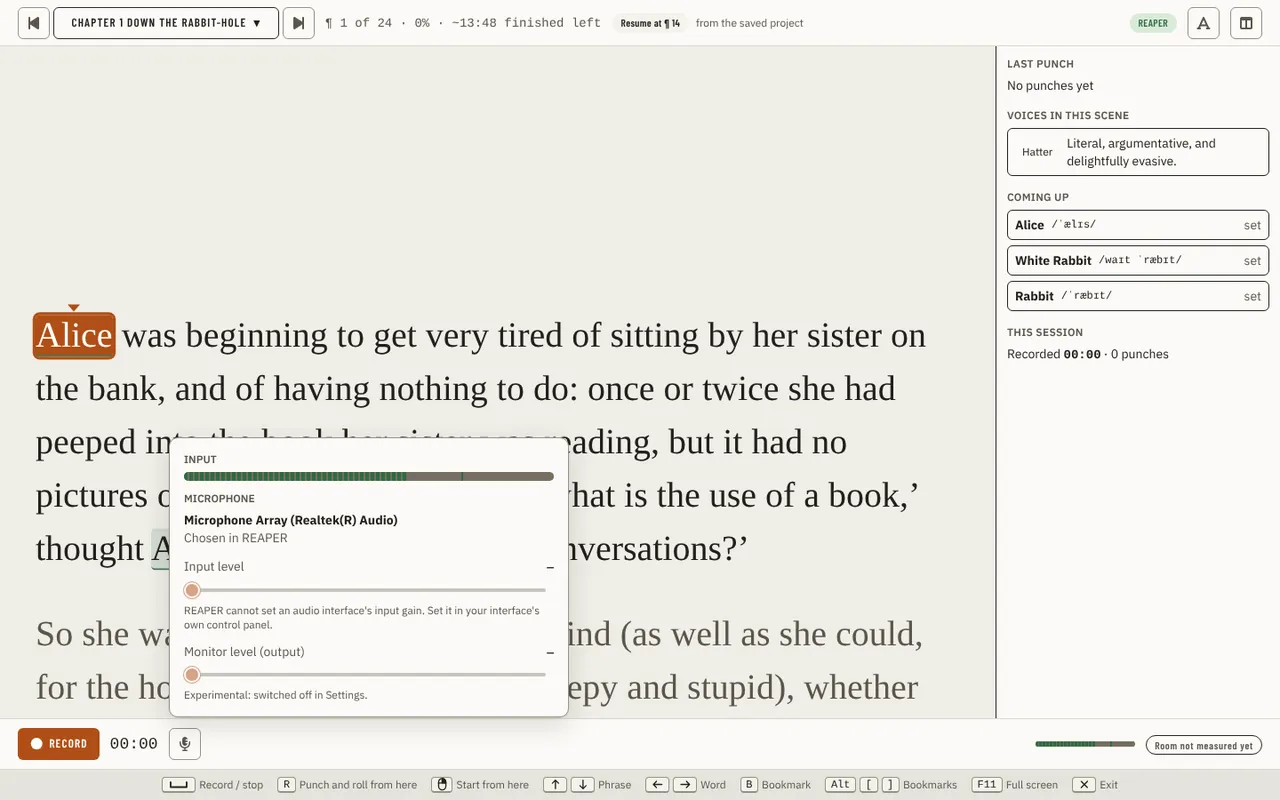
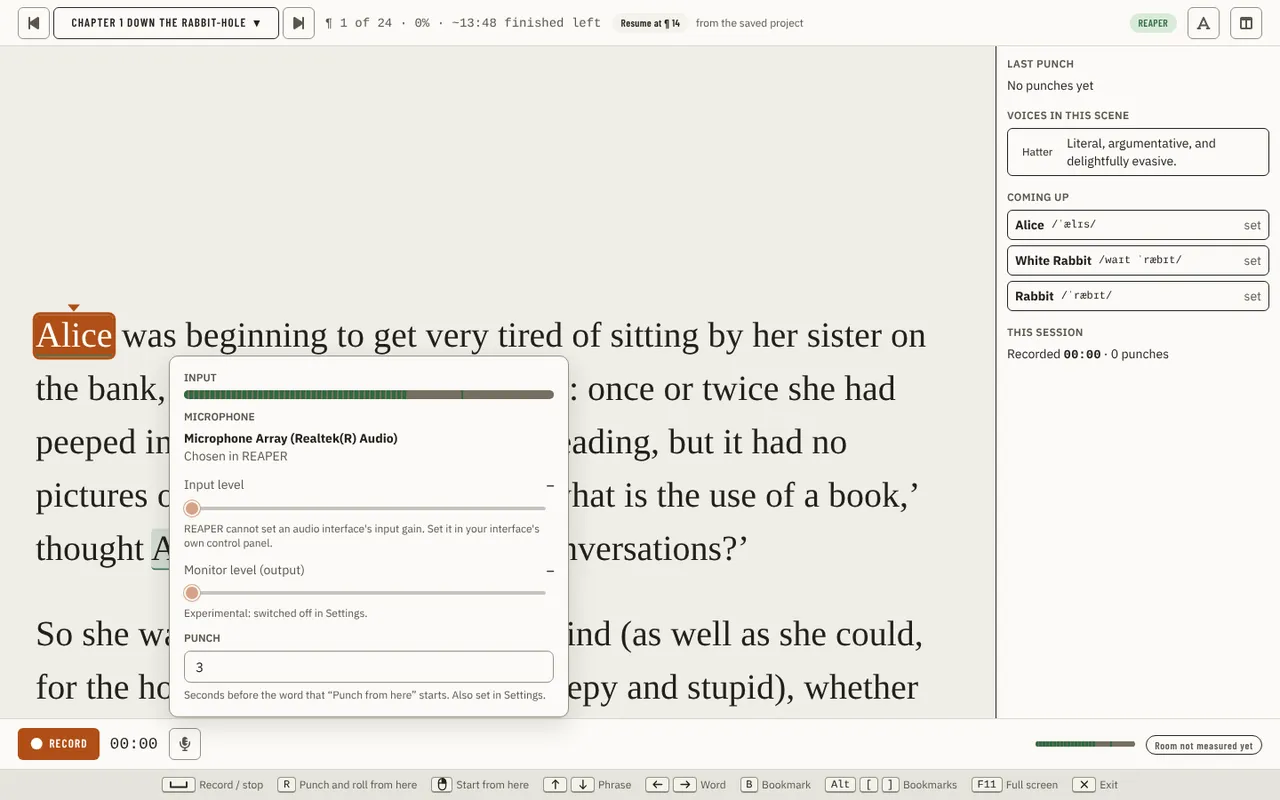
feat(ui): set the punch pre-roll in the Booth's Levels menu; drop the Settings copy (#1891)

Changed region(s): [[0.0312, 0.4688, 0.7188, 0.875], [0.4375, 0.7812, 0.7188, 0.8125]]

diff --git a/apps/ui/src/components/booth/frame/punchPreroll.test.tsx b/apps/ui/src/components/booth/frame/punchPreroll.test.tsx
@@ -1,0 +1,83 @@
+// @vitest-environment jsdom
+import { cleanup, fireEvent, render, screen, waitFor } from '@testing-library/react';
+import userEvent from '@testing-library/user-event';
+import { afterEach, describe, expect, it, vi } from 'vitest';
+import { ApiProvider } from '../../../api/ApiContext';
+import { createMockApi } from '../../../api/mockApi';
+import { defaultKeymap } from '../../../input/keymap';
+import type { NarrationApi } from '../../../types';
+import { BoothFooter } from './BoothFooter';
+
+afterEach(cleanup);
+
+// The punch pre-roll (Teleprompter.punch_preroll_seconds, a global number the host reads in "Punch from here") is set in the Levels menu, next to the
+// microphone, and only where a DAW punches. The Settings page lists it under Set on a page and opens the Booth.
+function menu(engine: 'daw' | 'builtin', over: Partial<NarrationApi> = {}) {
+  const save = vi.fn(async () => undefined);
+  const api = createMockApi({ saveSettings: save, ...over } as Partial<NarrationApi>);
+  render(
+    <ApiProvider api={api}>
+      <BoothFooter
+        record={<button>Record</button>}
+        seconds={0}
+        recording={false}
+        mic={{ engine, dawName: 'REAPER', reachable: true, device: 'USB Mic', onDevice: vi.fn() }}
+        roomTone="Room tone −58 dBFS"
+        keymap={defaultKeymap()}
+      />
+    </ApiProvider>,
+  );
+  return { save, open: () => userEvent.click(screen.getByRole('button', { name: 'Levels' })) };
+}
+
+describe('the Levels menu punch pre-roll', () => {
+  it('shows the stored pre-roll for a DAW and saves a change at the global layer', async () => {
+    const { save, open } = menu('daw');
+    await open();
+    const box = (await screen.findByRole('textbox', { name: 'Punch pre-roll (seconds)' })) as HTMLInputElement;
+    expect(box.value).toBe('3');
+    fireEvent.change(box, { target: { value: '5' } });
+    fireEvent.blur(box);
+    await waitFor(() => expect(save).toHaveBeenCalledWith('Teleprompter', 'global', { punch_preroll_seconds: '5' }));
+  });
+
+  it('clamps a value past the host range instead of saving it', async () => {
+    const { save, open } = menu('daw');
+    await open();
+    const box = await screen.findByRole('textbox', { name: 'Punch pre-roll (seconds)' });
+    fireEvent.change(box, { target: { value: '99' } });
+    fireEvent.blur(box);
+    await waitFor(() => expect(save).toHaveBeenCalledWith('Teleprompter', 'global', { punch_preroll_seconds: '10' }));
+  });
+
+  it('is not offered with the built-in recorder, which has no punch', async () => {
+    const { open } = menu('builtin');
+    await open();
+    await screen.findByRole('dialog', { name: 'Levels' });
+    expect(screen.queryByRole('textbox', { name: 'Punch pre-roll (seconds)' })).toBeNull();
+  });
+
+  it('says so when the setting cannot be read, and saves nothing', async () => {
+    const { save, open } = menu('daw', {
+      settingsForScope: async () => {
+        throw new Error('The settings file is unreadable.');
+      },
+    } as Partial<NarrationApi>);
+    await open();
+    expect(await screen.findByRole('alert')).toHaveProperty('textContent', expect.stringContaining('The settings file is unreadable.'));
+    expect(save).not.toHaveBeenCalled();
+  });
+
+  it('shows the host sentence when a save is refused, and keeps the typed value out of the stored one', async () => {
+    const { open } = menu('daw', {
+      saveSettings: async () => {
+        throw new Error('The settings file is read-only.');
+      },
+    } as Partial<NarrationApi>);
+    await open();
+    const box = await screen.findByRole('textbox', { name: 'Punch pre-roll (seconds)' });
+    fireEvent.change(box, { target: { value: '4' } });
+    fireEvent.blur(box);
+    expect(await screen.findByText(/read-only/)).toBeTruthy();
+  });
+});

diff --git a/apps/ui/src/components/booth/frame/usePunchPreroll.ts b/apps/ui/src/components/booth/frame/usePunchPreroll.ts
@@ -1,0 +1,63 @@
+import { useCallback, useEffect, useState } from 'react';
+import { usePort } from '../../../ports/usePort';
+
+const TOOL = 'Teleprompter';
+const KEY = 'punch_preroll_seconds';
+
+/** The pre-roll and the host's limits for it. The limits are the host's (`fieldSchemas`), never the menu's. */
+type PunchPreroll = { value: number; min?: number; max?: number; step?: number };
+
+type PunchPrerollState = {
+  /** Null until the setting is read, and while it cannot be. */
+  preroll: PunchPreroll | null;
+  /** Why it could not be read or saved, or ''. */
+  error: string;
+  set: (seconds: number) => void;
+};
+
+const why = (e: unknown): string => (e instanceof Error ? e.message : String(e));
+
+/**
+ * `Teleprompter.punch_preroll_seconds` through the settings port. It is a computer-wide setting, so it is read and saved at the global layer;
+ * "Punch from here" puts the DAW's edit cursor this many seconds before the word. A change is saved, then read back.
+ */
+export function usePunchPreroll(): PunchPrerollState {
+  const system = usePort('system');
+  const [preroll, setPreroll] = useState<PunchPreroll | null>(null);
+  const [error, setError] = useState('');
+  const [version, setVersion] = useState(0);
+
+  useEffect(() => {
+    let live = true;
+    system.settingsForScope('global').then(
+      (fields) => {
+        if (!live) return;
+        const field = (fields[TOOL] ?? []).find((f) => f.key === KEY);
+        const value = Number(field?.effectiveValue);
+        if (!field || field.effectiveValue === '' || !Number.isFinite(value)) {
+          setPreroll(null);
+          setError('The punch pre-roll setting could not be read.');
+          return;
+        }
+        setPreroll({ value, min: field.number?.min ?? undefined, max: field.number?.max ?? undefined, step: field.number?.step ?? undefined });
+        setError('');
+      },
+      (e) => live && setError(why(e)),
+    );
+    return () => {
+      live = false;
+    };
+  }, [system, version]);
+
+  const set = useCallback(
+    (seconds: number) => {
+      system.saveSettings(TOOL, 'global', { [KEY]: String(seconds) }).then(
+        () => setVersion((v) => v + 1),
+        (e) => setError(why(e)),
+      );
+    },
+    [system],
+  );
+
+  return { preroll, error, set };
+}

diff --git a/apps/ui/src/components/booth/frame/LevelsMenu.tsx b/apps/ui/src/components/booth/frame/LevelsMenu.tsx
@@ -7,10 +7,12 @@ import { IconButton } from '../../primitives/IconButton';
 import { LevelMeter } from '../../primitives/LevelMeter';
 import { Popover } from '../../primitives/Popover';
 import { Select } from '../../primitives/Select';
+import { NumberInput } from '../../primitives/NumberInput';
 import { Slider } from '../../primitives/Slider';
 import { Badge } from '../../primitives/StatusBadge';
 import type { InputLevel } from './useLevels';
 import { useMonitorLevel } from './useMonitorLevel';
+import { usePunchPreroll } from './usePunchPreroll';
 
 export type LevelsMenuProps = {
   /** Which engine records: with a DAW the microphone is chosen in the DAW, with the built-in recorder here. */
@@ -183,6 +185,25 @@ function LevelSliders({ levels }: { levels: NonNullable<LevelsMenuProps['levels'
   );
 }
 
+/** How far before a word "Punch from here" starts: a computer-wide number, set here because only punching reads it. Offered with a DAW, the only recorder that punches. */
+function PunchPrerollRow() {
+  const { preroll, error, set } = usePunchPreroll();
+  return (
+    <div className="flex flex-col gap-1.5">
+      <span className="text-xs font-semibold text-[var(--text-muted)] uppercase">Punch</span>
+      {preroll ? (
+        <NumberInput label="Punch pre-roll (seconds)" value={preroll.value} min={preroll.min} max={preroll.max} step={preroll.step} onValueChange={set} />
+      ) : null}
+      <span className="text-xs text-[var(--text-muted)]">Seconds before the word that “Punch from here” starts.</span>
+      {error ? (
+        <span role="alert" className="text-xs [overflow-wrap:anywhere] text-[var(--danger-text)]">
+          {error}
+        </span>
+      ) : null}
+    </div>
+  );
+}
+
 export function LevelsMenu({ engine, dawName, reachable, offReason, device, onDevice, listen, levels, level, error, open, onOpenChange }: LevelsMenuProps) {
   const off = engine === 'daw' && !reachable;
   return (
@@ -219,6 +240,7 @@ export function LevelsMenu({ engine, dawName, reachable, offReason, device, onDe
           ) : null}
         </div>
         {levels ? <LevelSliders levels={levels} /> : null}
+        {engine === 'daw' ? <PunchPrerollRow /> : null}
       </div>
     </Popover>
   );

diff --git a/apps/ui/src/interactionFeedback/teleprompter.ts b/apps/ui/src/interactionFeedback/teleprompter.ts
@@ -125,6 +125,8 @@ export const teleprompterFeedback: Record<string, FeedbackRow> = {
   'src/components/booth/companion/CompanionPage.tsx::creditsTemplates#1': row('effect', 'file-io', 'na', 'na', 'ui', 'silent', 'na', 'exempt', 'Only decides whether the credits panel has a body to show; with no template the panel stays absent (SILENT_CATCHES).'),
   'src/components/booth/companion/CompanionPage.tsx::creditsPreview#1': row('effect', 'file-io', 'na', 'na', 'ui', 'silent', 'na', 'exempt', 'The credits text the panel shows; a failed preview leaves the panel absent rather than blocking the chapter (SILENT_CATCHES).'),
   'src/components/booth/frame/LevelsMenu.tsx::recorderDevices#1': row('mount', 'instant', 'na', 'na', 'ui', 'inline', 'na', 'ok', 'The input devices of the levels popover; the result carries its own error, which the popover shows beside the device picker.'),
+  'src/components/booth/frame/usePunchPreroll.ts::settingsForScope#1': row('mount', 'file-io', 'na', 'na', 'ui', 'inline', 'na', 'ok', 'Reads the global layer when the Levels menu opens and again after each save; a failure is written under the pre-roll box in the menu.'),
+  'src/components/booth/frame/usePunchPreroll.ts::saveSettings#1': row('input', 'file-io', 'none', 'none', 'ui', 'inline', 'na', 'ok', 'A one-field write when the box is left or Enter is pressed, then read back; the host refusal is written under the box and the stored value stays.'),
   'src/components/booth/frame/useLevels.ts::subscribeTeleprompterEvent#1': subscription('The meter-only child\'s level and meter_stopped events: the popover draws the level and shows the child\'s error.'),
   'src/components/booth/frame/useLevels.ts::teleprompterMeterStart#1': row('effect', 'instant', 'na', 'na', 'ui', 'inline', 'na', 'ok', 'Starts the meter-only child while the popover is open; a refusal is shown as the meter\'s error.'),
   'src/components/booth/frame/useLevels.ts::teleprompterMeterStop#1': row('effect', 'instant', 'na', 'na', 'ui', 'silent', 'na', 'exempt', 'Releases the meter-only child when the popover closes or the device changes; nothing is left mounted to tell, and the next start works either way (SILENT_CATCHES).'),

diff --git a/apps/ui/src/components/settings/page/PageSettingPanel.tsx b/apps/ui/src/components/settings/page/PageSettingPanel.tsx
@@ -6,7 +6,6 @@ import { ScopedFieldsPanel } from './ScopedFieldsPanel';
 
 // Module-level so the panel's field list keeps its identity between reads (ScopedFieldsPanel's contract).
 const compareOnly = (field: ScopedSettingField) => field.key !== 'model_size';
-const punchOnly = (field: ScopedSettingField) => field.key === 'punch_preroll_seconds';
 const favouritesOnly = (field: ScopedSettingField) => field.key === 'fx_favourites';
 
 /** The panel that always edited a setting now listed under Set on a page, kept as built until its page has the control. */
@@ -34,8 +33,6 @@ export function PageSettingPanel({ panel }: { panel: NonNullable<PageSetting['pa
       return (
         <ScopedFieldsPanel id="compare" title="Compare defaults" tool="TranscriptCompare" scopes={['global', 'project']} filter={compareOnly} notify={notify} />
       );
-    case 'punch':
-      return <ScopedFieldsPanel id="punch" title="Punch pre-roll" tool="Teleprompter" scopes={['global']} filter={punchOnly} notify={notify} />;
     case 'fx':
       return <ScopedFieldsPanel id="fx" title="Favourite effects" tool="DAW" scopes={['global', 'project']} filter={favouritesOnly} notify={notify} />;
   }

diff --git a/apps/ui/src/components/settings/page/SettingsPage.test.tsx b/apps/ui/src/components/settings/page/SettingsPage.test.tsx
@@ -204,6 +204,15 @@ describe('Settings: search and filters', () => {
     expect(document.querySelector('[data-page-setting="ps.cleanup"]')).toBeTruthy();
   });
 
+  it('lists the punch pre-roll with a way to the Booth and no second editor here', async () => {
+    await renderPage();
+    await userEvent.type(await screen.findByRole('textbox', { name: 'Search settings' }), 'preroll');
+    const entry = document.querySelector<HTMLElement>('[data-page-setting="ps.punch"]');
+    expect(entry).toBeTruthy();
+    expect(within(entry!).getByRole('button', { name: /^Open Booth/ })).toBeTruthy();
+    expect(within(entry!).queryByRole('button', { name: 'Change it here for now' })).toBeNull();
+  });
+
   it('lists the Audacity backups with a way to Editing and no second editor here', async () => {
     await renderPage();
     await userEvent.type(await screen.findByRole('textbox', { name: 'Search settings' }), 'retention');

diff --git a/apps/ui/src/components/settings/registry/pageSettings.ts b/apps/ui/src/components/settings/registry/pageSettings.ts
@@ -12,7 +12,7 @@ export type PageSetting = {
   why: string;
   syn?: string;
   /** The panel kept behind the entry: see `PagesPane`. Absent once the page has the control, so the entry only points there. */
-  panel?: 'coverage' | 'cleanup' | 'preview' | 'stages' | 'compare' | 'punch' | 'fx';
+  panel?: 'coverage' | 'cleanup' | 'preview' | 'stages' | 'compare' | 'fx';
 };
 
 export const PAGE_SETTINGS: readonly PageSetting[] = [
@@ -65,8 +65,7 @@ export const PAGE_SETTINGS: readonly PageSetting[] = [
     id: 'ps.punch',
     label: 'Punch pre-roll',
     page: 'booth',
-    where: 'Booth › Record setup',
-    panel: 'punch',
+    where: 'Levels menu',
     why: 'It changes how a punch feels while recording.',
     syn: 'preroll seconds roll',
   },

diff --git a/docs/guides/using-the-app/settings.md b/docs/guides/using-the-app/settings.md
@@ -258,7 +258,7 @@ If Narration Studio will not start after an update and the program file is missi
 
 ## Set on a page
 
-Some settings only change what one page does, so they belong on that page, next to what they change: the recording check's rules (Production), silence cleanup (Master & QC), the preview suggestion and compare defaults (Proof), stage suggestions (Production), punch pre-roll (Booth), favourite effects and the Audacity backups (Editing). **Set on a page** lists them, each with where it is or will be and an **Open** button for that page. The Audacity backups are set on the Backups tab in [Editing](editing.md#effects-backups-and-timeline) only. For the others, until a page has its own control, **Change it here for now** opens the panel that always edited it, with its **Global** / **This project** switch, **Save** and **Discard changes**; leaving Settings with unsaved changes there asks whether to save or discard them. Search finds them too.
+Some settings only change what one page does, so they belong on that page, next to what they change: the recording check's rules (Production), silence cleanup (Master & QC), the preview suggestion and compare defaults (Proof), stage suggestions (Production), punch pre-roll (Booth), favourite effects and the Audacity backups (Editing). **Set on a page** lists them, each with where it is or will be and an **Open** button for that page. Punch pre-roll is set in the Booth's **Levels** menu only, and the Audacity backups on the Backups tab in [Editing](editing.md#effects-backups-and-timeline) only. For the others, until a page has its own control, **Change it here for now** opens the panel that always edited it, with its **Global** / **This project** switch, **Save** and **Discard changes**; leaving Settings with unsaved changes there asks whether to save or discard them. Search finds them too.
 
 ![Settings - Set on a page, with the recording check rules opened](../../images/ui/settings-pages.webp)
 

diff --git a/docs/guides/using-the-app/booth.md b/docs/guides/using-the-app/booth.md
@@ -44,6 +44,8 @@ the recorder reports for that microphone (**Room not measured yet** until it rep
 from your keymap. In **Levels**, **Monitor level (output)** sets how loud the DAW plays back to you (0 to 100, 70 is its normal
 level; REAPER's first hardware output, so the files you render are not changed). **Input level** is shown but off, with the reason:
 no DAW can set an audio interface's input gain, so set it in your interface's own control panel.
+With a DAW, **Punch pre-roll (seconds)** sets how long before the word **R** starts the DAW (0 to 10, in half seconds). It applies to every project on
+this computer, and Settings lists it under **Set on a page** with an **Open Booth** button. The built-in recorder does not punch, so the menu has no such box.
 
 ![Booth - the Levels menu: the input level and the microphone the text listens to](../../images/ui/booth-levels-menu.webp)
 
